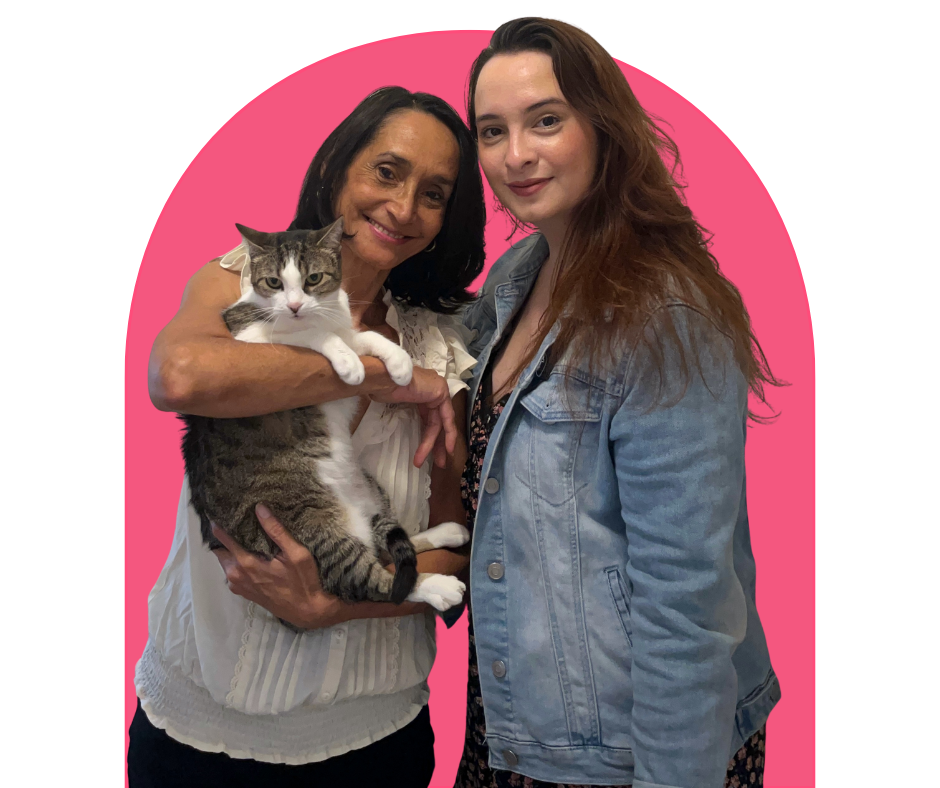
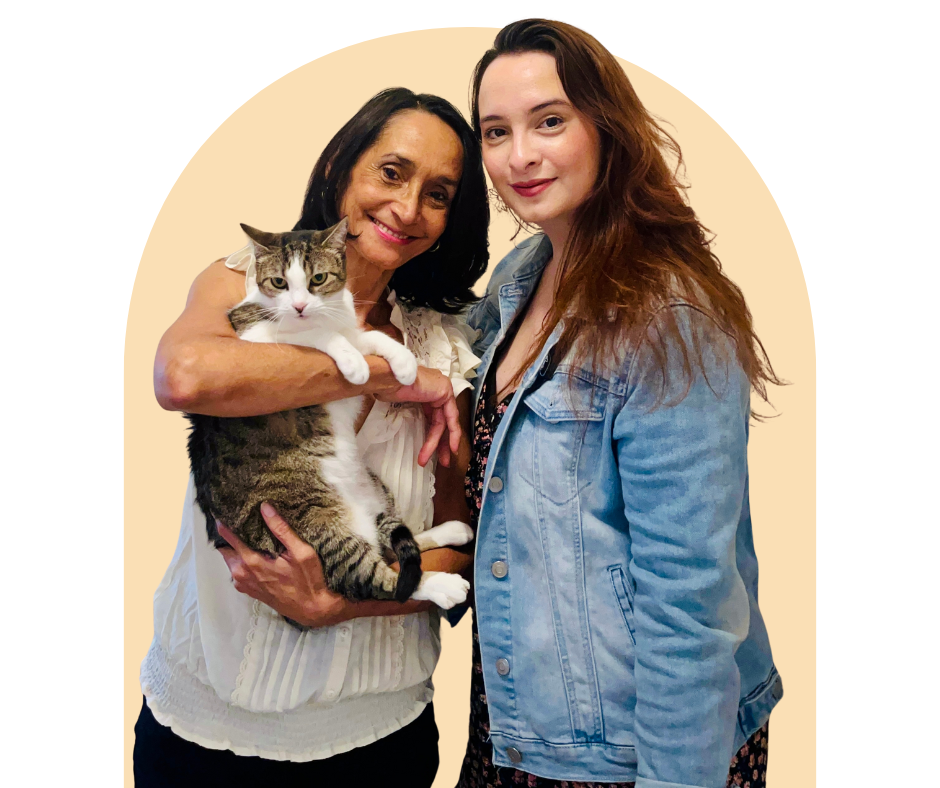
Cambiodecolor

diff --git a/proyecto/index.html b/proyecto/index.html
@@ -100,6 +100,55 @@
 
 
 
+
+
+  <section class="">
+    <div class="container-sm-6 pt-5">
+        <h2 class="titulos text-center" data-translate="testimonios_titulo">Testimonios de clientes</h2>
+        <div class="pt-5"></div>
+        <div class="testimonials_container">
+            <div class="testimonials owl-carousel owl-theme">
+                <div class="item">
+                    <div class="img-container">
+                        <img src="img/testimonio1.jpg" alt="">
+                    </div>
+                    <h3>Alejandra Chinchilla</h3>
+                    <p data-translate="testimonio1">"Gracias a Dentisalud ahora puedo sonreír tranquila, su servicio es increíble."</p>
+                </div>
+                <div class="item">
+                    <div class="img-container">
+                        <img src="img/testimonio2.jpg" alt="">
+                    </div>
+                    <h3>Clara Vargas</h3>
+                    <p data-translate="testimonio2">"El Dr. Aguirre es muy profesional y atento, gracias a Dentisalud por su atención."</p>
+                </div>
+                <div class="item">
+                    <div class="img-container">
+                        <img src="img/testimonio3.jpg" alt="">
+                    </div>
+                    <h3>Sara Martínez</h3>
+                    <p data-translate="testimonio3">"Antes me daba miedo ir al dentista, desde que conocí Dentisalud mi vida cambió."</p>
+                </div>
+                <div class="item">
+                    <div class="img-container">
+                        <img src="img/testimonio4.jpg" alt="">
+                    </div>
+                    <h3>Mario Fallas</h3>
+                    <p data-translate="testimonio4">"Muy satisfecho con la clínica Dentisalud, muchas gracias!"</p>
+                </div>
+                <div class="item">
+                    <div class="img-container">
+                        <img src="img/testimonio5.jpg" alt="">
+                    </div>
+                    <h3>Luis Segura</h3>
+                    <p data-translate="testimonio5">"Atienden bien, saben escuchar las sugerencias de los pacientes, son muy profesionales."</p>
+                </div>
+            </div>
+        </div>
+    </div>
+  </section>
+
+
     
     <!-- Bootstrap JS y Popper.js necesarios para que el toggle funcione -->
     <script src="https://cdn.jsdelivr.net/npm/@popperjs/core@2.11.6/dist/umd/popper.min.js"></script>

diff --git a/proyecto/css/index.css b/proyecto/css/index.css
@@ -31,24 +31,24 @@
   }
   
   .navbar-nav .nav-link:hover {
-    color: #ff4c7a; 
+    color: #e1c290; 
     border-radius: 30px;
   }
 
 
   .navbar-nav .nav-link.btn {
     background-color: #fff; 
-    color: #ff4c7a; 
+    color: #e1c290; 
     font-weight: bold; 
     padding: 0.6rem 1.2rem; 
-    border: 2px solid #ff4c7a; 
+    border: 2px solid #e1c290; 
     border-radius: 50px; 
     transition: background-color 0.3s ease, transform 0.3s ease; 
     display: inline-block; 
   }
 
   .navbar-nav .nav-link.btn:hover {
-    background-color: #ff4c7a; 
+    background-color: #e1c290; 
     color: #fff; 
     transform: scale(1.05); 
   }
@@ -88,7 +88,7 @@
   }
 
   .hero .btn:hover {
-    background-color: #ff4c7a; 
+    background-color: #e1c290; 
     transform: scale(1.08); 
   }
 
@@ -100,7 +100,7 @@
       }
 
     .navbar-toggler {
-      border: 1px solid #ff4c7a;
+      border: 1px solid #e1c290;
       margin-top: -40px;
     }
   
@@ -113,7 +113,7 @@
     
     .navbar-nav .nav-link {
         font-size: 1.3rem;
-        color: #ff4c7a; 
+        color: #e1c290; 
         background-color: #fff; 
         padding: 0.6rem 1rem; 
         border-radius: 25px; 
@@ -264,7 +264,7 @@
 
 
   #banner-text {
-    background-color: #000; 
+    background-color: #e1c290; 
     padding: 2rem 1rem; 
     text-align: center;
   }
